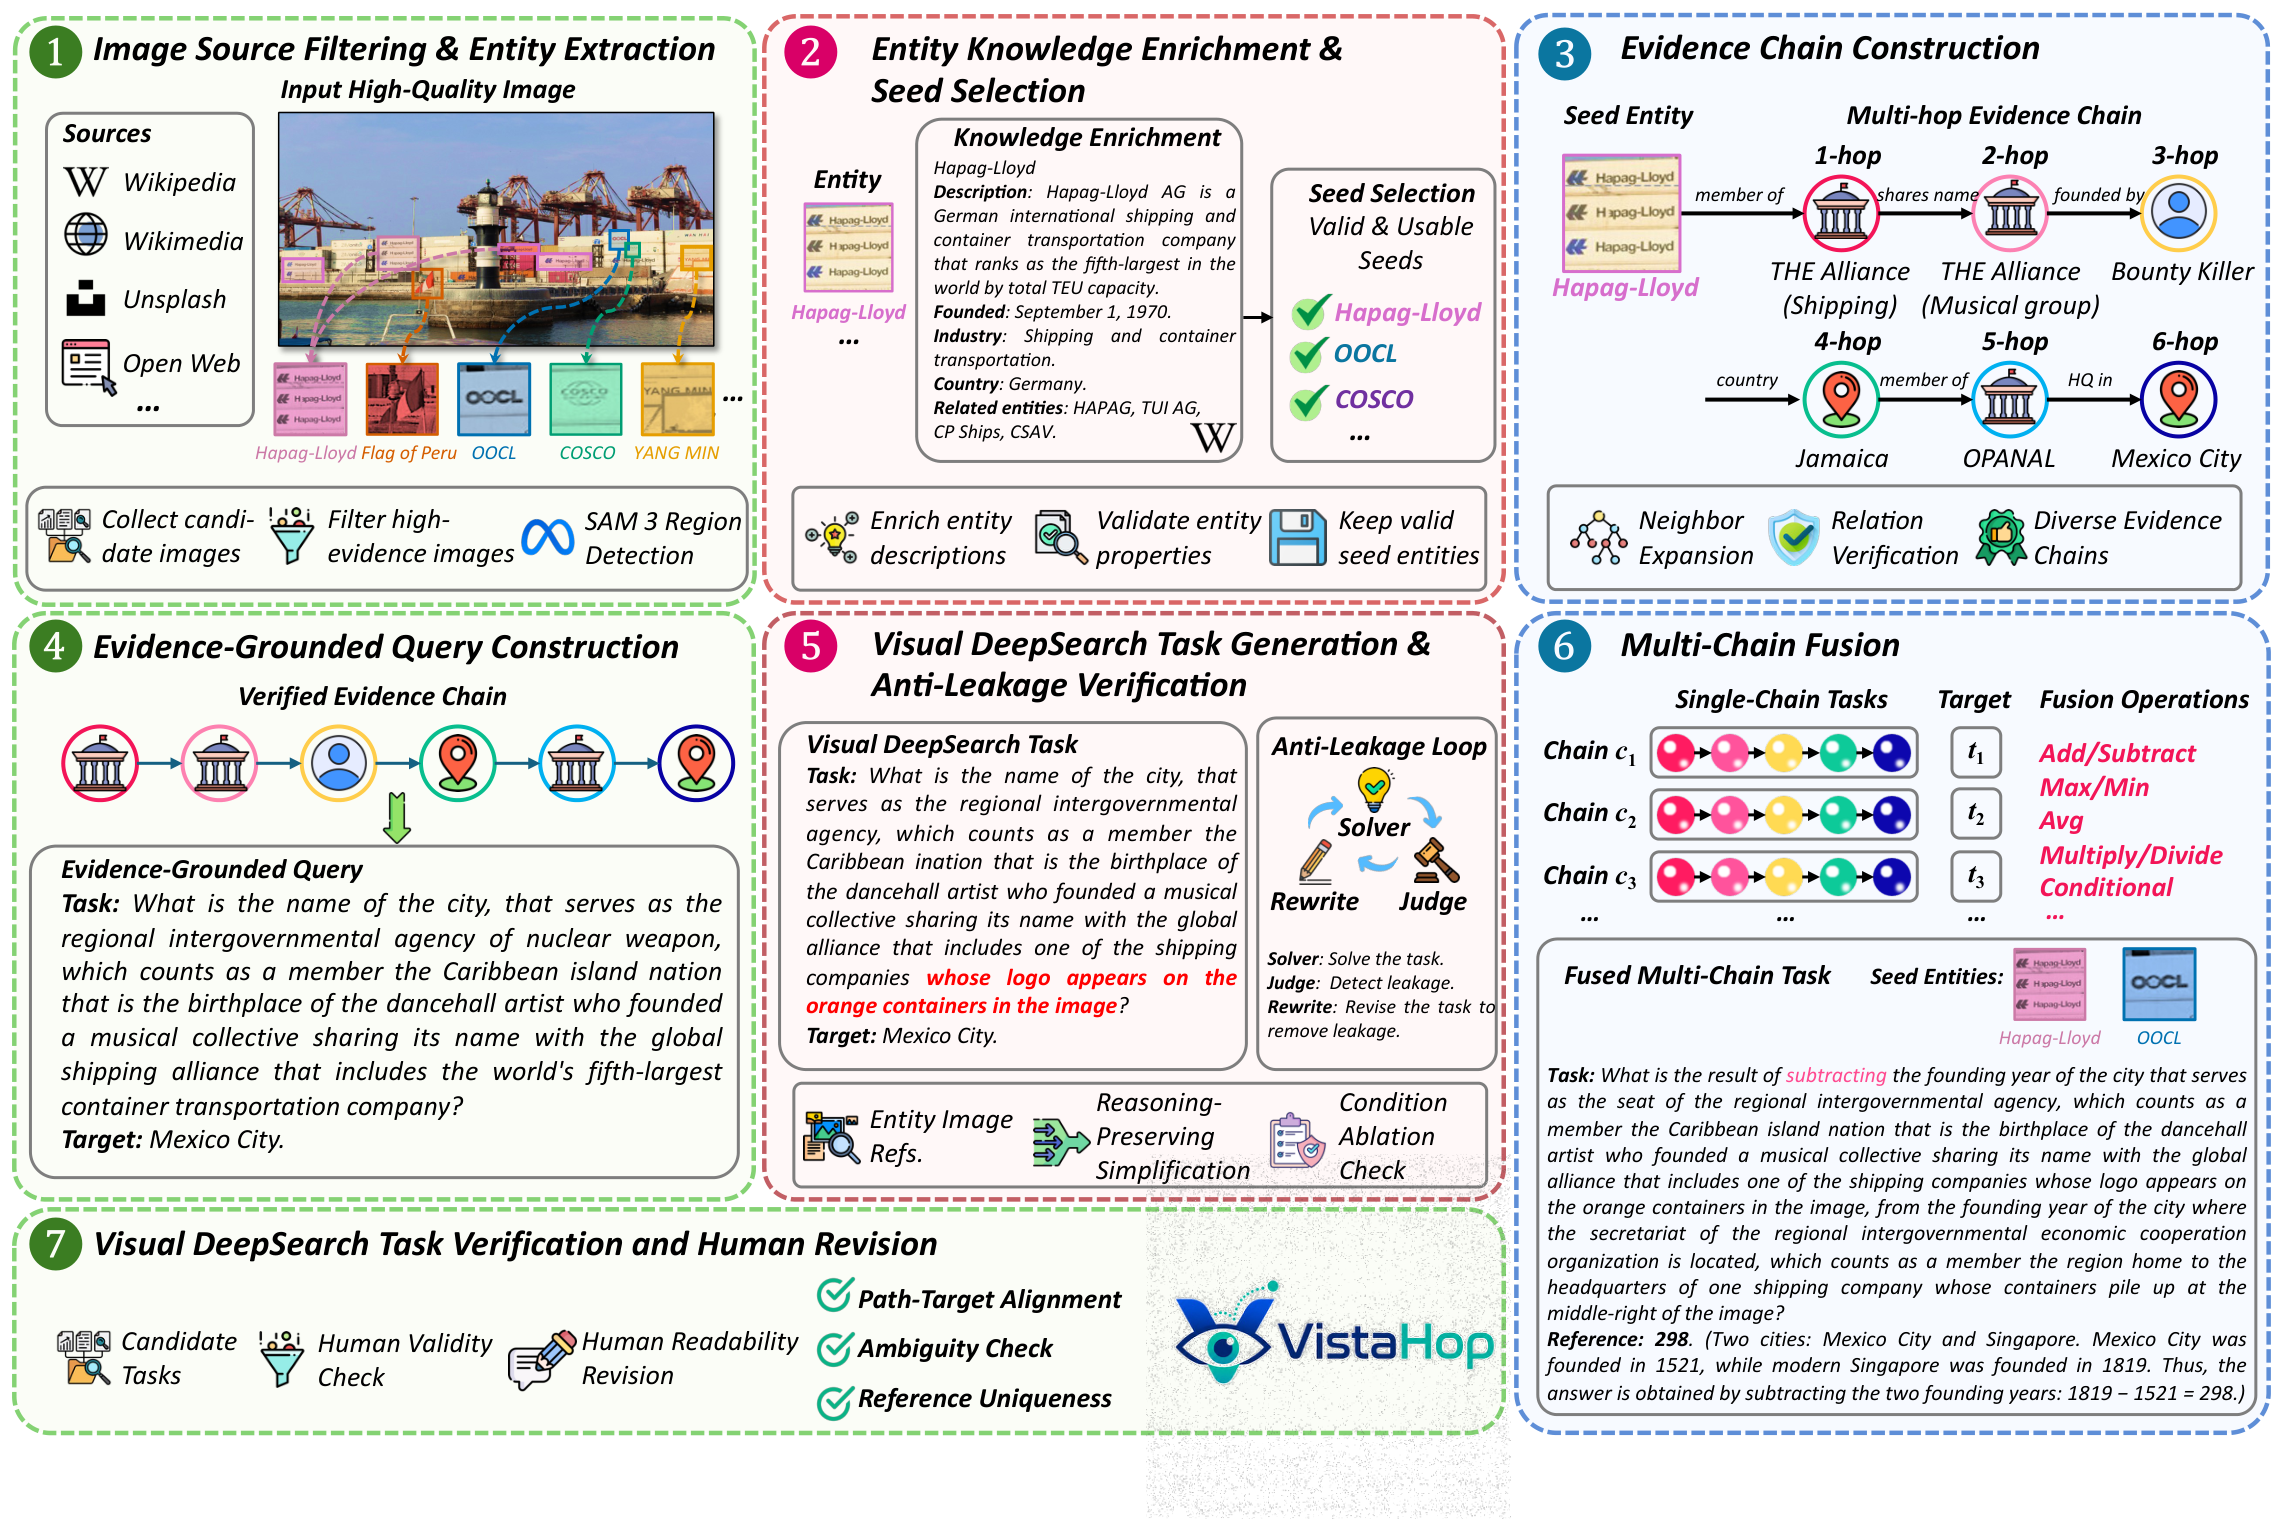
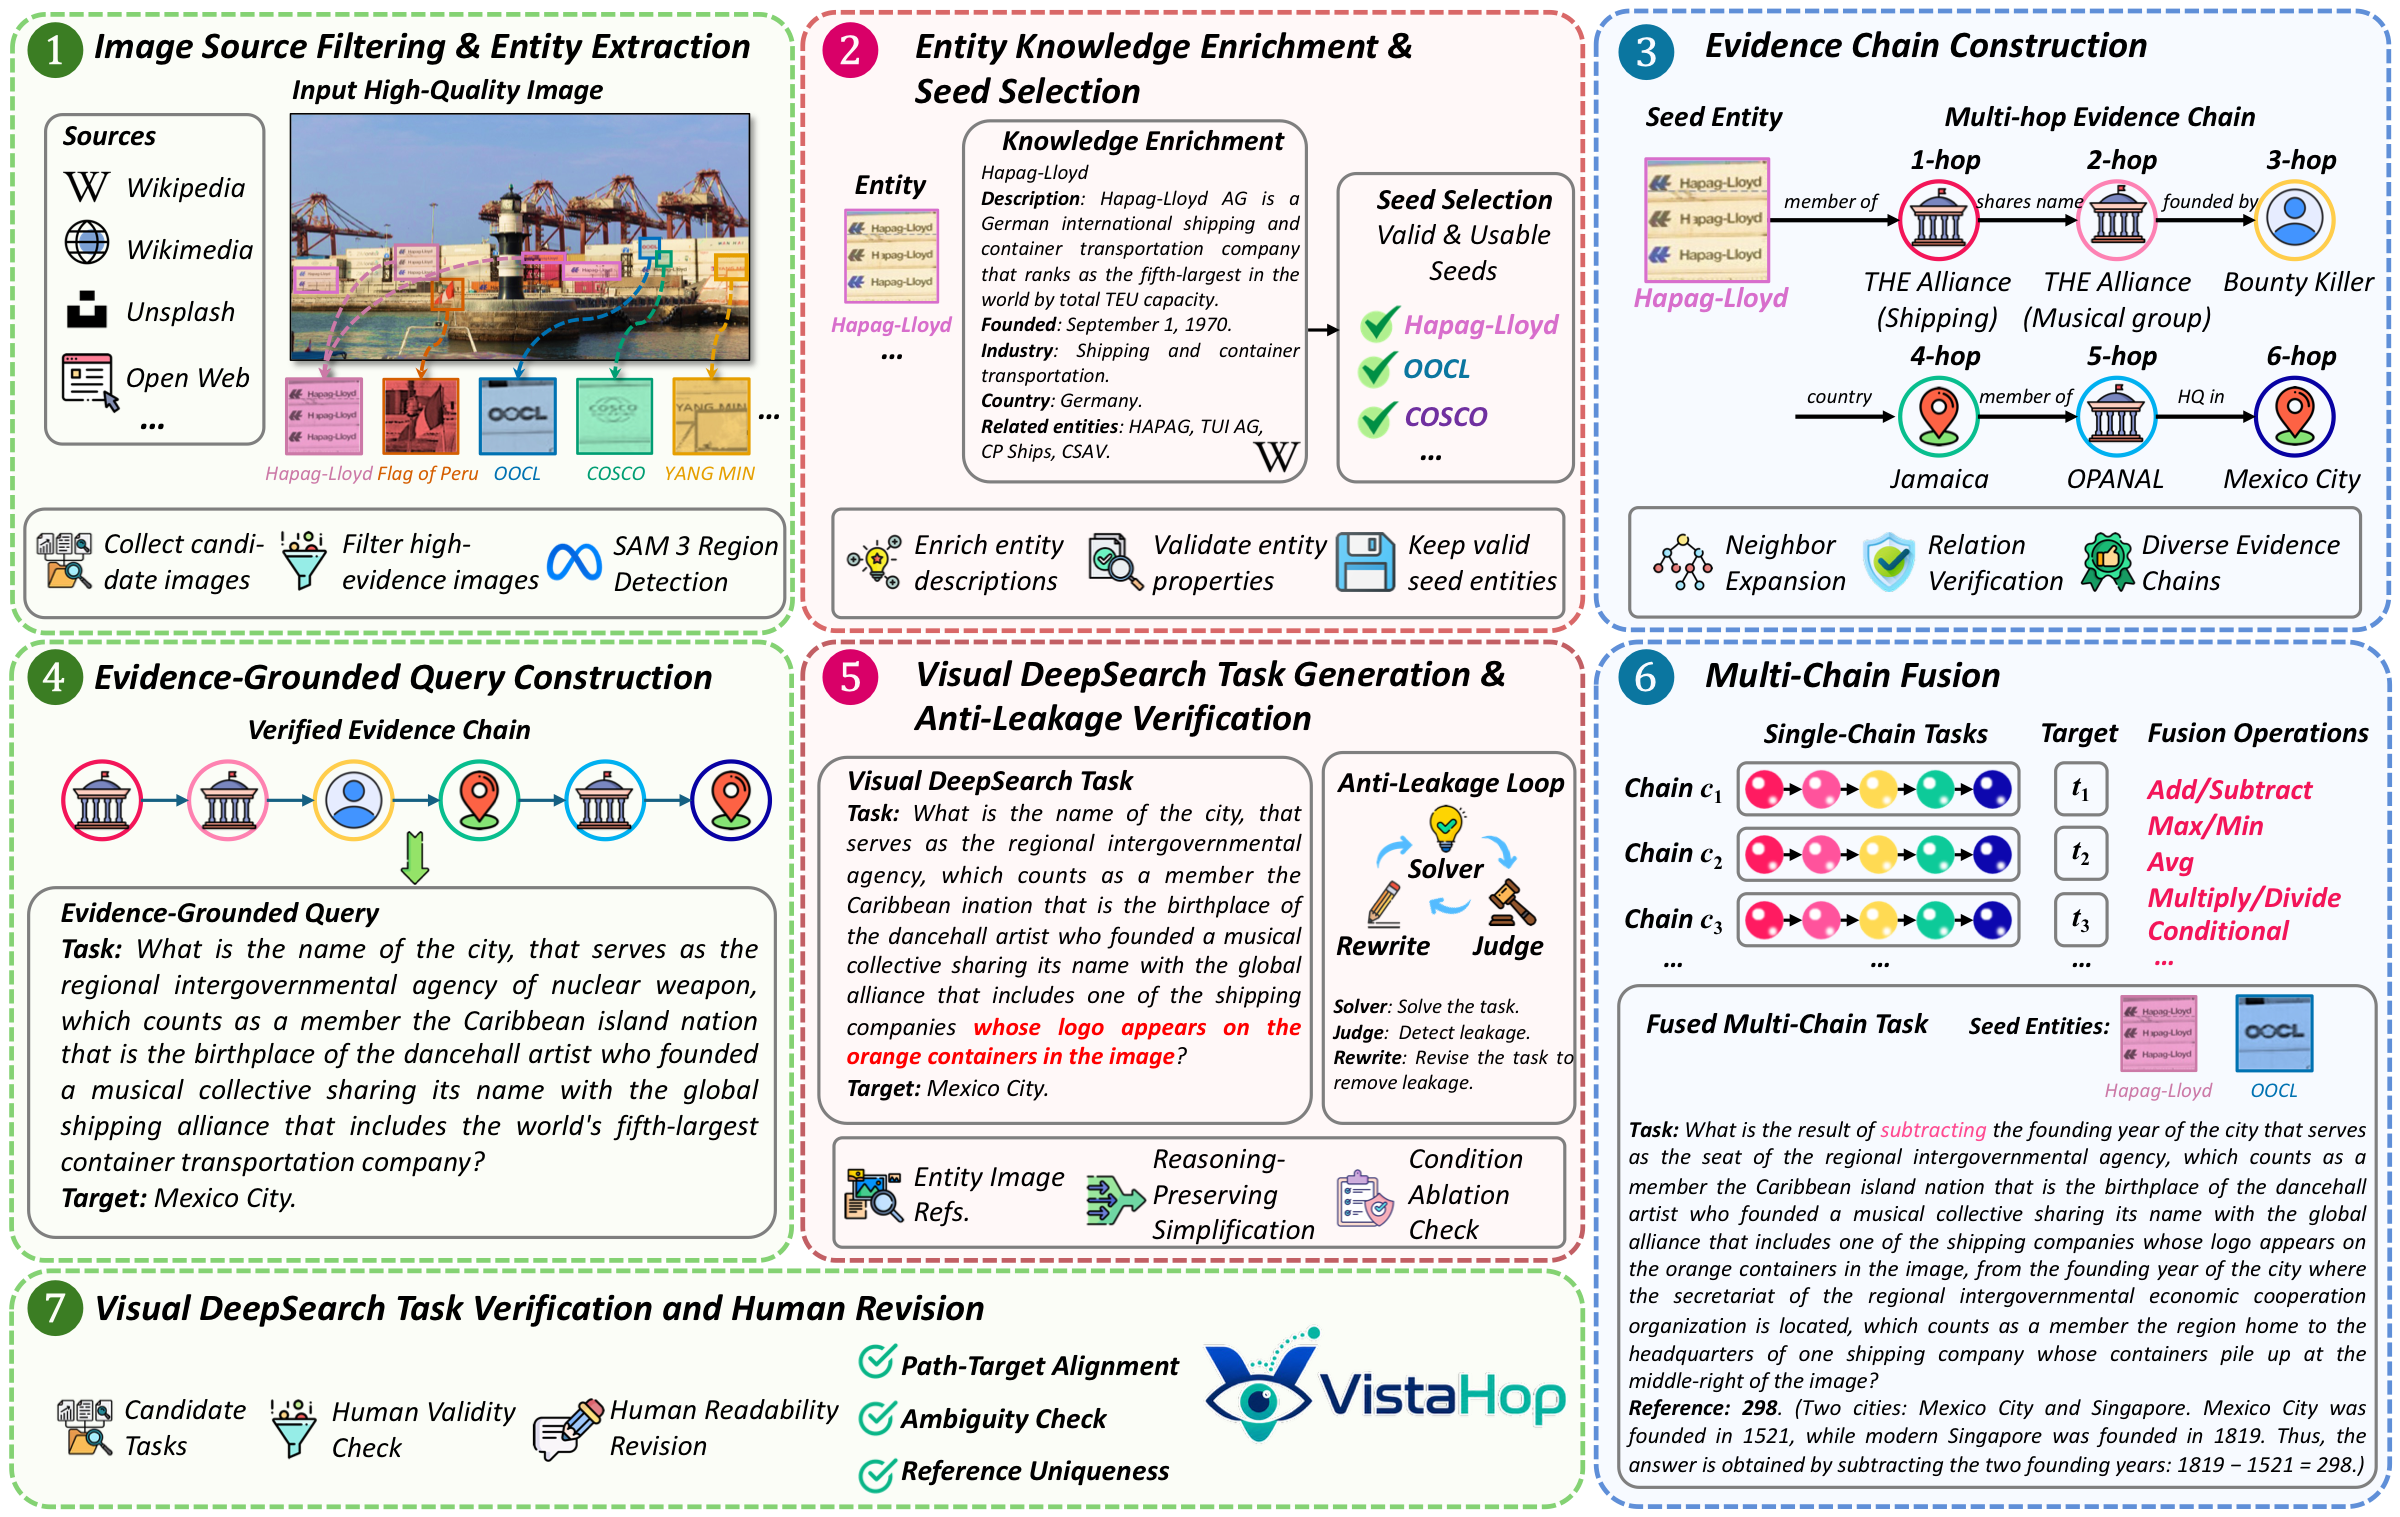
Update construction pipeline figure

diff --git a/index.html b/index.html
@@ -229,7 +229,7 @@
           </div>
           <div class="figure-shell reveal">
             <img
-              src="assets/images/pipeline.png"
+              src="assets/images/pipeline.png?v=20260719b"
               alt="Seven-stage VistaHop benchmark construction pipeline"
             />
             <p>
